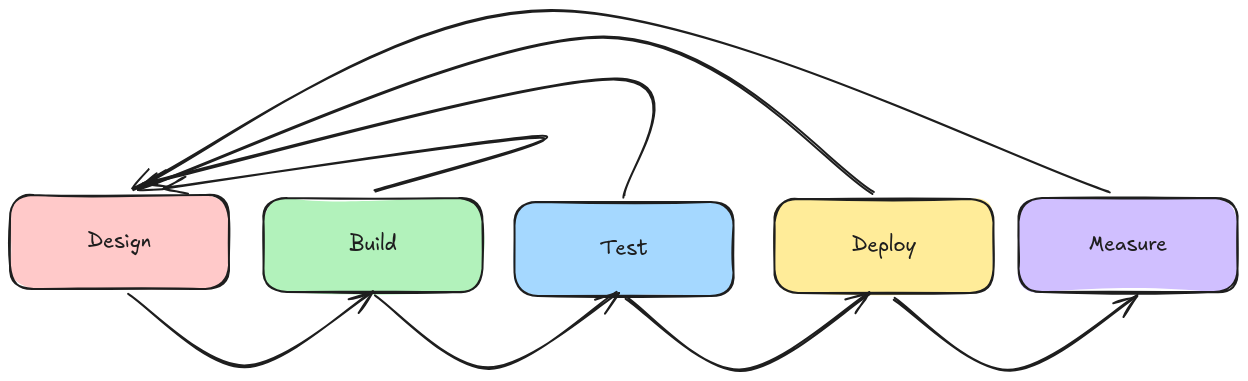
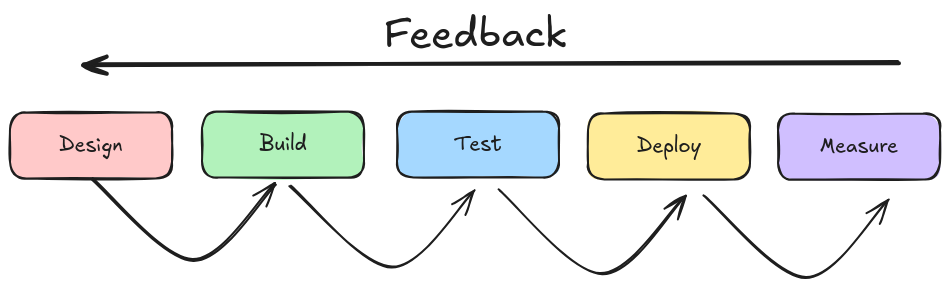
Devops Slides started

diff --git a/ohtuprese/pages/devops.md b/ohtuprese/pages/devops.md
@@ -44,16 +44,40 @@ Sama tilanne kuin "Prosessin sidosryhmät" -dian: samat laatikot ja samat muutok
 
 ---
 
-## What is DevOps?
+## Mitä on DevOps?
+
+- Andrew Schafer ja Patrick Debois käyttivät termiä ensimmäisen kerran 2008–2009
+- DevOps on alunperin kulttuuri, filosofia ja joukko käytäntöjä, jotka yhdistävät ohjelmistokehityksen (Dev) ja IT-toimintojen (Ops) tiimit
+- Mielestäni käsitettä voidaan laajentaa myös muuhun IT-organisaation osiin.
 
 ---
 
-## Principles
+## Periaatteet
+ - Siilojen purkaminen
+   - Yhteistyö ja yhteinen vastuu
+ - Työnkulun tehostaminen
+   - Automaatio, CI/CD, Self-service
+ - Nopea palaute
+   - Inkrementaalinen kehitys, jatkuva parantaminen, yhteiset mittarit
+ - Kokeilukulttuuri
+   - Epäonnistumisen salliminen, nopea palautuminen, korkea luottamus
+ 
 
+<h1 v-click class="text-center underline mt-12"> Gene Kim: The Three Ways </h1>
+
+<!--
+Nopea palautuminen toistoilla. 20% ajasta non-functional tekemiseen.
+-->
 ---
 
-## Practices
-
+## SRE
+- Site Reliablility Engineering
+- Google kehitti SRE:n 2003, kun heillä oli tarve hallita suuria järjestelmiä.
+- Konsepteja:
+  - SLA, SLO, SLI ja virhebudjetit
+  - Toil reduction
+  - Monitorinti ja mittaaminen
+  - Blameless postmortem ja psykologinen turvallisuus
 ---
 
 ## Measuring DevOps
